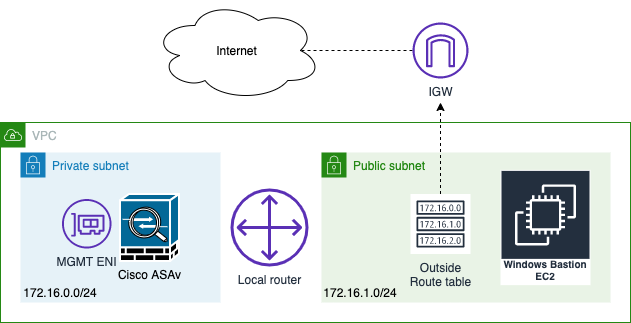
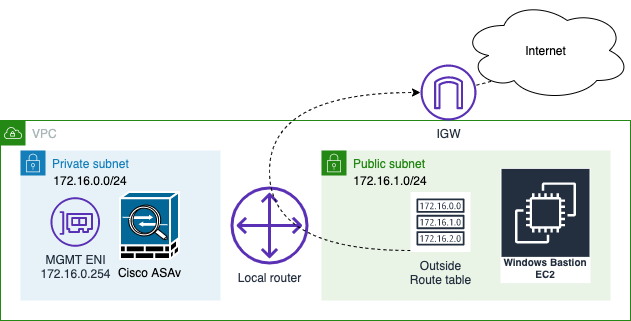
Added AWS network components

diff --git a/docs/asa.rst b/docs/asa.rst
@@ -3,7 +3,7 @@ Deploy the ASAv On the AWS Cloud
 
 In this chapter, we will be discussing about how to deploy Cisco ASAv (virtual Adaptive Security Appliance) on AWS (Amazon Web Services). 
 
-In the initial topology:
+Initial topology:
 
 * The primary elastic network interface (MGMT ENI) is mapped to the management interface (Management0/0).
 * Windows bastion host is deployed in a public subnet to be used for accessing the ASA management interface which is deployed in a private subnet via Local router.
@@ -13,16 +13,57 @@ In the initial topology:
    :width: 600px
    :alt: ASA initial topology
 
+Let's start building the initial topology by creating the VPC with CIDR 172.16.0.0/16:
+
+.. image:: VPC.png
+   :width: 600px
+   :alt: VPC
+
+Then we create two subnets: MGMT (management) subnet in a private subnet (172.16.0.0/24) and Outside subnet in a public subnet (172.16.1.0/24):
+
+.. image:: mgmt-outside-subnets.png
+   :width: 600px
+   :alt: Management and Outside subnets
+
+Create a IGW and attach it to the VPC. The IGW will be used as the default route target (next-hop) of the public subnet.
+
+.. image:: IGW.png
+   :width: 600px
+   :alt: IGW
+
+Create Ouside route table and a route entry with the destination any (0.0.0.0/0) and the target of the IGW as the next hop:
+
+.. image:: outside-RT.png
+   :width: 600px
+   :alt: Outside Route table
+
+Associate the Outside route table to the Outside subnet:
+
+.. image:: outside-RT-subnet-assoc.png
+   :width: 600px
+   :alt: Associate Outside Route table with Outside subnet
+
+Launch an EC2 instance named Windows Bastion and enable Auto-assign Public IP so that the EC2 instance can be accessed from Internet:
+
+.. image:: WIN-bastion.png
+   :width: 600px
+   :alt: Windows bastion
+
+.. image:: WIN-bastion-name.png
+   :width: 600px
+   :alt: Windows bastion name
+
 Sample Day 0 Configuration
 
 .. code-block:: console
 
-   ! ASA Version 9.4.1.200
+   ! required config start   
+   ! ASA Version 9.14(1)10
    interface management0/0
    management-only
    nameif management
    security-level 100
-   ip address dhcp setroute
+   ip address 172.16.0.254 255.255.255.0 
    no shut
    !
    same-security-traffic permit inter-interface
@@ -38,8 +79,8 @@ Sample Day 0 Configuration
    ! example dns configuration
    dns domain-lookup management
    DNS server-group DefaultDNS
-   ! where this address is the .2 on your public subnet
-   name-server 172.19.0.2
+   ! where this address is the .2 on your VPC CIDR
+   name-server 172.16.0.2
    ! example ntp configuration
    name 129.6.15.28 time-a.nist.gov
    name 129.6.15.29 time-b.nist.gov
@@ -47,6 +88,7 @@ Sample Day 0 Configuration
    ntp server time-c.nist.gov
    ntp server time-b.nist.gov
    ntp server time-a.nist.gov
+   ! required config end 
 
 Here is the topology of ASA on AWS VPC (virtual private cloud)
 
